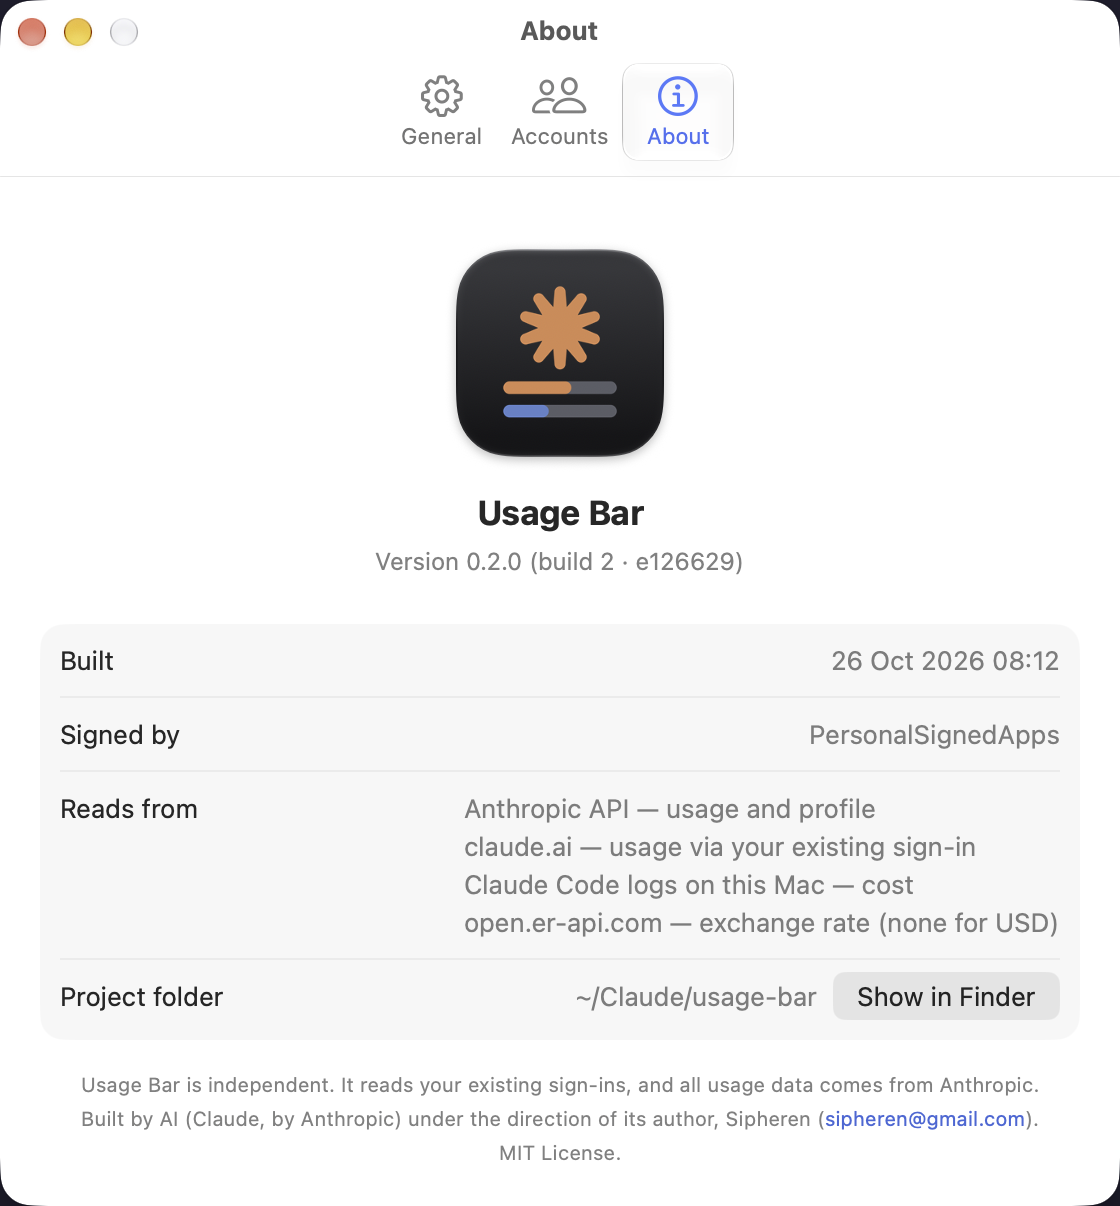
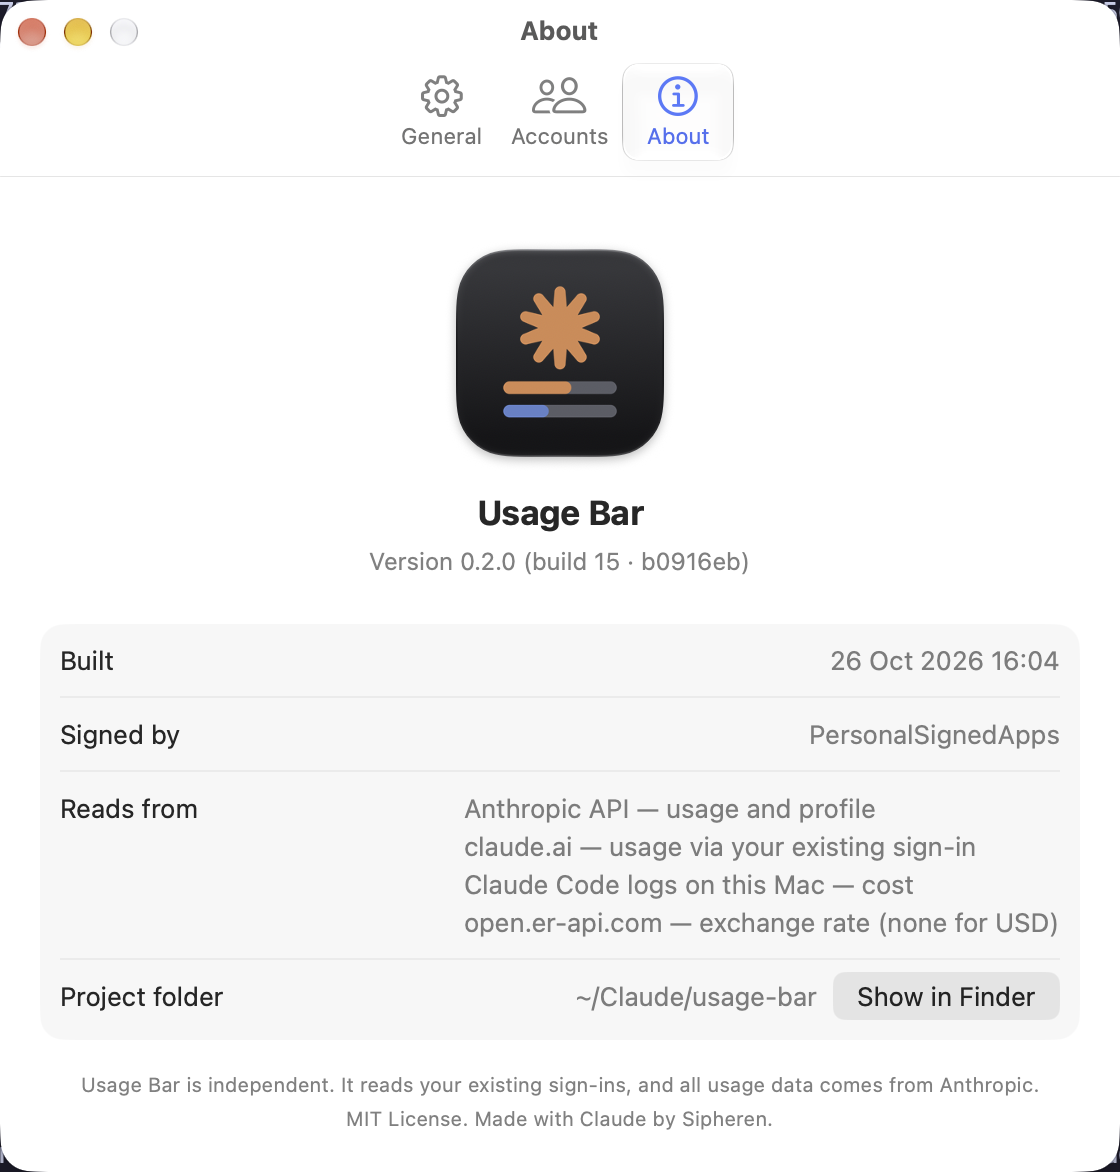
About: credit toned down to one footer line on macOS and Windows
The About footer now reads "MIT License. Made with Claude by Sipheren." in place of
the "Built by AI…" line and the separate licence line. Windows drops the mailto
Hyperlink and its now-unused Link_Navigate handler. Decision 14, the changelog and
the macOS About screenshot (demo mode) are updated to match.

diff --git a/windows/src/UsageBar/SettingsWindow.xaml b/windows/src/UsageBar/SettingsWindow.xaml
@@ -278,7 +278,7 @@
                         </StackPanel>
                     </Border>
                     <TextBlock TextAlignment="Center" FontSize="11" LineHeight="17" Foreground="{DynamicResource Secondary}" TextWrapping="Wrap" Margin="-8,0">
-                        Usage Bar is independent. It reads your existing sign-ins, and all usage data comes from Anthropic.<LineBreak/>Built by AI (Claude, by Anthropic) under the direction of its author, Sipheren (<Hyperlink NavigateUri="mailto:sipheren@gmail.com" RequestNavigate="Link_Navigate" Foreground="{DynamicResource Accent}">sipheren@gmail.com</Hyperlink>).<LineBreak/>MIT License.
+                        Usage Bar is independent. It reads your existing sign-ins, and all usage data comes from Anthropic.<LineBreak/>MIT License. Made with Claude by Sipheren.
                     </TextBlock>
                 </StackPanel>
             </Grid>

diff --git a/macos/Sources/UsageBar/SettingsView.swift b/macos/Sources/UsageBar/SettingsView.swift
@@ -463,8 +463,7 @@ struct AboutTab: View {
             } footer: {
                 VStack(spacing: 4) {
                     Text("Usage Bar is independent. It reads your existing sign-ins, and all usage data comes from Anthropic.")
-                    Text("Built by AI (Claude, by Anthropic) under the direction of its author, Sipheren (sipheren@gmail.com).")
-                    Text("MIT License.")
+                    Text("MIT License. Made with Claude by Sipheren.")
                 }
                 .font(.caption)
                 .foregroundStyle(.secondary)

diff --git a/windows/src/UsageBar/SettingsWindow.xaml.cs b/windows/src/UsageBar/SettingsWindow.xaml.cs
@@ -8,7 +8,6 @@ using System.Windows.Controls;
 using System.Windows.Interop;
 using System.Windows.Media;
 using System.Windows.Media.Imaging;
-using System.Windows.Navigation;
 using UsageBar.Core;
 
 namespace UsageBar;
@@ -220,12 +219,6 @@ public partial class SettingsWindow : Window
     void ShowFolder_Click(object sender, RoutedEventArgs e)
     {
         if (BuildInfo.ProjectFolder is { } f) Process.Start(new ProcessStartInfo("explorer.exe", $"\"{f}\"") { UseShellExecute = true });
-    }
-
-    void Link_Navigate(object sender, RequestNavigateEventArgs e)
-    {
-        Process.Start(new ProcessStartInfo(e.Uri.AbsoluteUri) { UseShellExecute = true });
-        e.Handled = true;
     }
 }
 

diff --git a/CHANGELOG.md b/CHANGELOG.md
@@ -25,6 +25,8 @@ The existing tags `v0.1.0` and `v0.2.0` are macOS releases.
   Windows app (0.1.4) and its tray icons.
 - Docs: the authorship note is one line at the end of the README instead of a quote at the top of the
   README and the devlog.
+- macOS: the About credit is now a short footer line ("MIT License. Made with Claude by Sipheren.").
+- Windows: the About credit is now a short footer line ("MIT License. Made with Claude by Sipheren.").
 - Repository (all platforms): reorganised for more than one platform: the macOS app moved to `macos/` (package,
   sources, tests, `VERSION`, build scripts), its architecture and development notes to `docs/macos/`,
   and the mockups to `design/mockup/`. Shared docs, design assets and repo-wide scripts stay at the

diff --git a/docs/DECISIONS.md b/docs/DECISIONS.md
@@ -101,9 +101,9 @@ endorsed by Anthropic.
 
 ## 14. MIT licence and an authorship note
 
-**Decision.** The project is MIT licensed so friends can use and change it. A line at the end of the
-README and the About tab say it was built by AI (Claude, by Anthropic) under the direction of its
-author, Sipheren; nowhere else, and never at the top of a page.
+**Decision.** The project is MIT licensed so friends can use and change it. The About tab's footer
+reads "Made with Claude by Sipheren", and the full note is one line at the end of the README; nowhere
+else, and never at the top of a page.
 `scripts/check-secrets.sh` allows exactly the author's published address and nothing else.
 
 ## 15. Costs in a chosen currency
